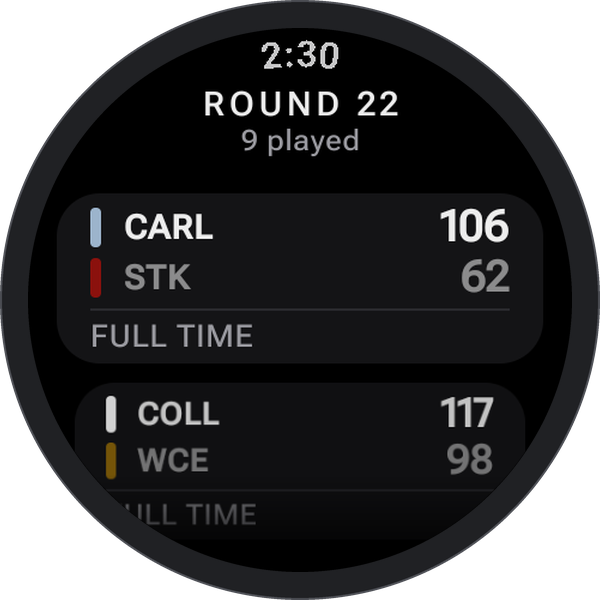
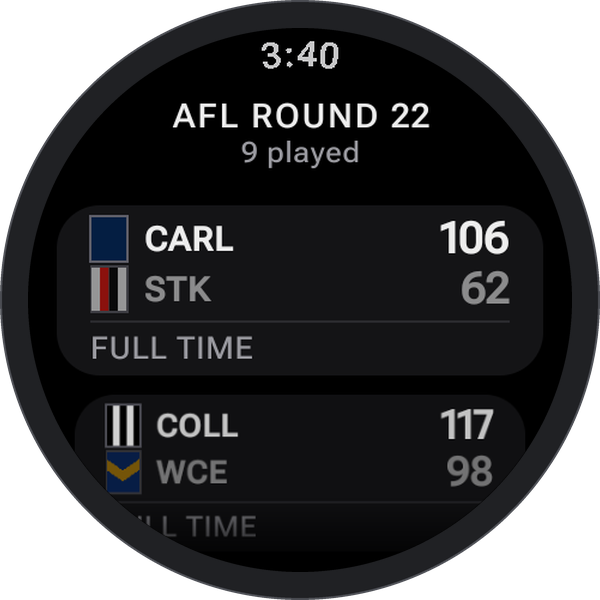
Reshoot the scoreboard, and show the second competition
The scoreboard shot on the site and in the Play listing was stale in a way
nothing would have flagged: it showed the club colour bars the app used before
the guernsey chips, so the listing advertised a UI the app no longer has. It
also predates the sectioned board.

Recaptured off the shipping build, and a new shot added for the AFLW block,
because the page claimed "AFL and AFLW in the one app" and illustrated it with
nothing - which is the one line on the page a reader most wants proof of.

Copy follows: a Both Codes section, and the tile caption says there is one per
code now.

Claude-Session: https://claude.ai/code/session_01DRPfSM13DeHwS1jxqZ4EHt

diff --git a/index.html b/index.html
@@ -98,12 +98,25 @@
       <div class="feature feature-lead">
         <figure class="shot shot-round">
           <img src="img/w-round.png" width="300" height="300" loading="lazy" decoding="async"
-               alt="A round watch showing Round 22: Carlton 106, St Kilda 62 at full time, and Collingwood 117, West Coast 98 below it.">
+               alt="A round watch showing AFL Round 22: Carlton 106, St Kilda 62 at full time, and Collingwood 117, West Coast 98 below it.">
         </figure>
         <div>
           <h2>Live Scores</h2>
           <p>Every match in the round on one screen, with the games being played right now at the top.</p>
           <p>Your club is drawn in its own colours and sits above the rest.</p>
+        </div>
+      </div>
+
+      <div class="feature feature-flip">
+        <figure class="shot shot-round">
+          <img src="img/w-aflw.png" width="300" height="300" loading="lazy" decoding="async"
+               alt="A round watch showing AFLW Round 1: Melbourne against Hawthorn, live, with the men's round 22 results below.">
+        </figure>
+        <div>
+          <h2>Both Codes</h2>
+          <p>AFL and AFLW each get their own block, with their own round above it.</p>
+          <p>In August one is on round 22 and the other on round 1. You can read both without working out which is which.</p>
+          <p>Turn either off if you only follow the one.</p>
         </div>
       </div>
 
@@ -177,7 +190,7 @@
         <figure>
           <img src="img/w-tile.png" width="230" height="230" loading="lazy" decoding="async"
                alt="The tile: Collingwood 81, West Coast 66 live in the third quarter, with three more matches beneath.">
-          <figcaption><strong>Tile and complications.</strong> Your club on the watch face, one swipe from anywhere.</figcaption>
+          <figcaption><strong>Tiles and complications.</strong> Your club on the watch face, one swipe from anywhere. There is a tile for each code, so you add the football you want.</figcaption>
         </figure>
       </div>
     </div>
@@ -192,7 +205,7 @@
         <li><strong>No Phone Needed:</strong> Runs on the watch by itself. Nothing to pair, no account.</li>
         <li><strong>Goals and Behinds:</strong> Both, alongside the total. 12.9 and 81.</li>
         <li><strong>Your Club First:</strong> Your team sits at the top, in its own colours.</li>
-        <li><strong>Men's and Women's:</strong> AFL and AFLW in the one app.</li>
+        <li><strong>Men's and Women's:</strong> AFL and AFLW, each in its own block with its own round.</li>
         <li><strong>No Ads, Ever:</strong> No advertising, and nothing about you leaves the watch.</li>
         <li><strong>Built for a Watch:</strong> Made for a small screen, not shrunk down from a phone.</li>
       </ul>

diff --git a/tools/make_shots.py b/tools/make_shots.py
@@ -103,6 +103,10 @@ def main() -> int:
         "wear-07-tile.png": "w-tile.png",
         "wear-08-goal-feed.png": "w-goals.png",
         "wear-04-club-theme.png": "w-club.png",
+        # THE SECOND COMPETITION, WITH ITS OWN HEADING. Added 13 Aug with the sectioned board.
+        # The page claimed "AFL and AFLW in the one app" and illustrated it with nothing, which
+        # is the one line on the page a reader is most likely to want proof of.
+        "wear-09-aflw-section.png": "w-aflw.png",
     }
     missing = [s for s in wear if not (WEAR_SRC / s).exists()]
     if missing:
